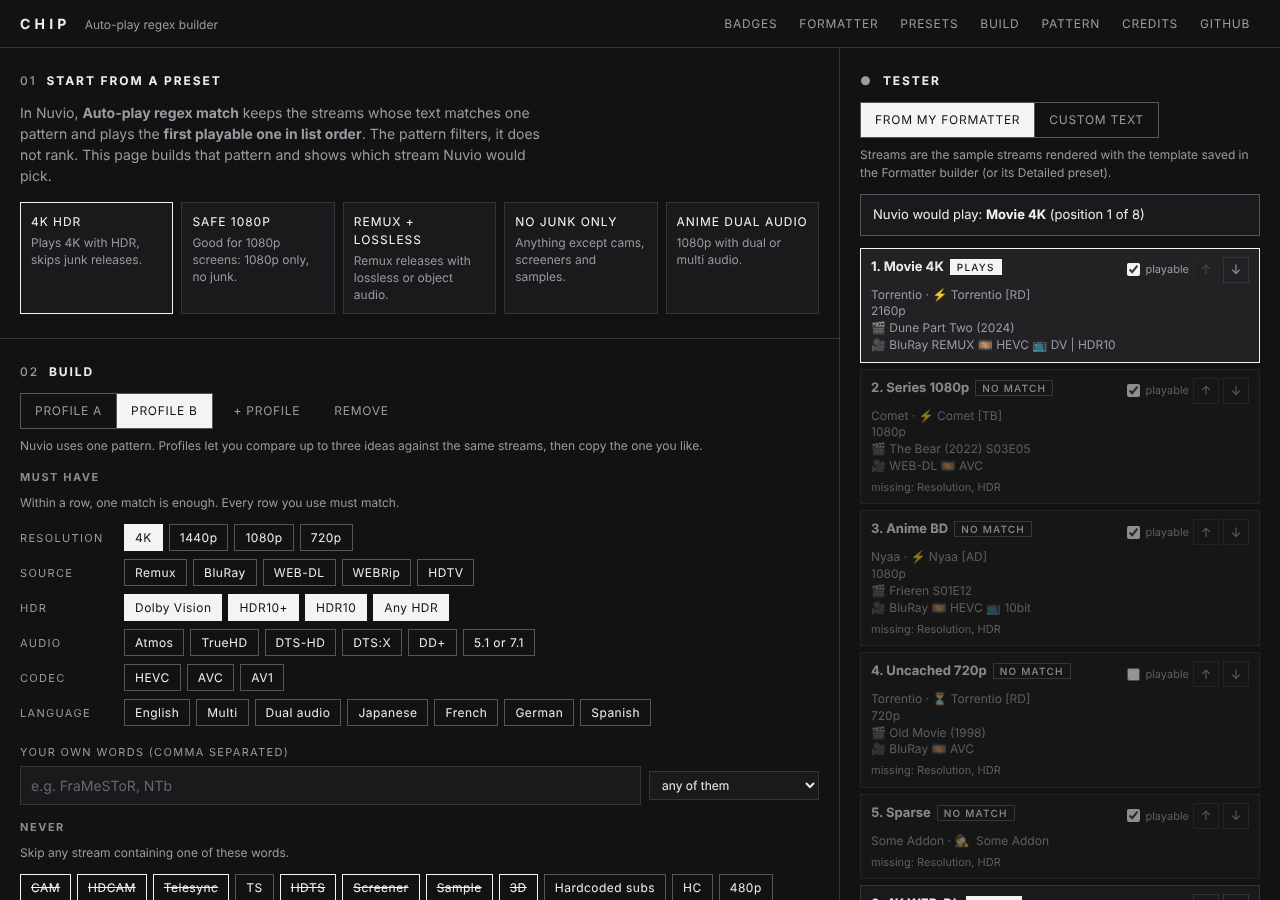
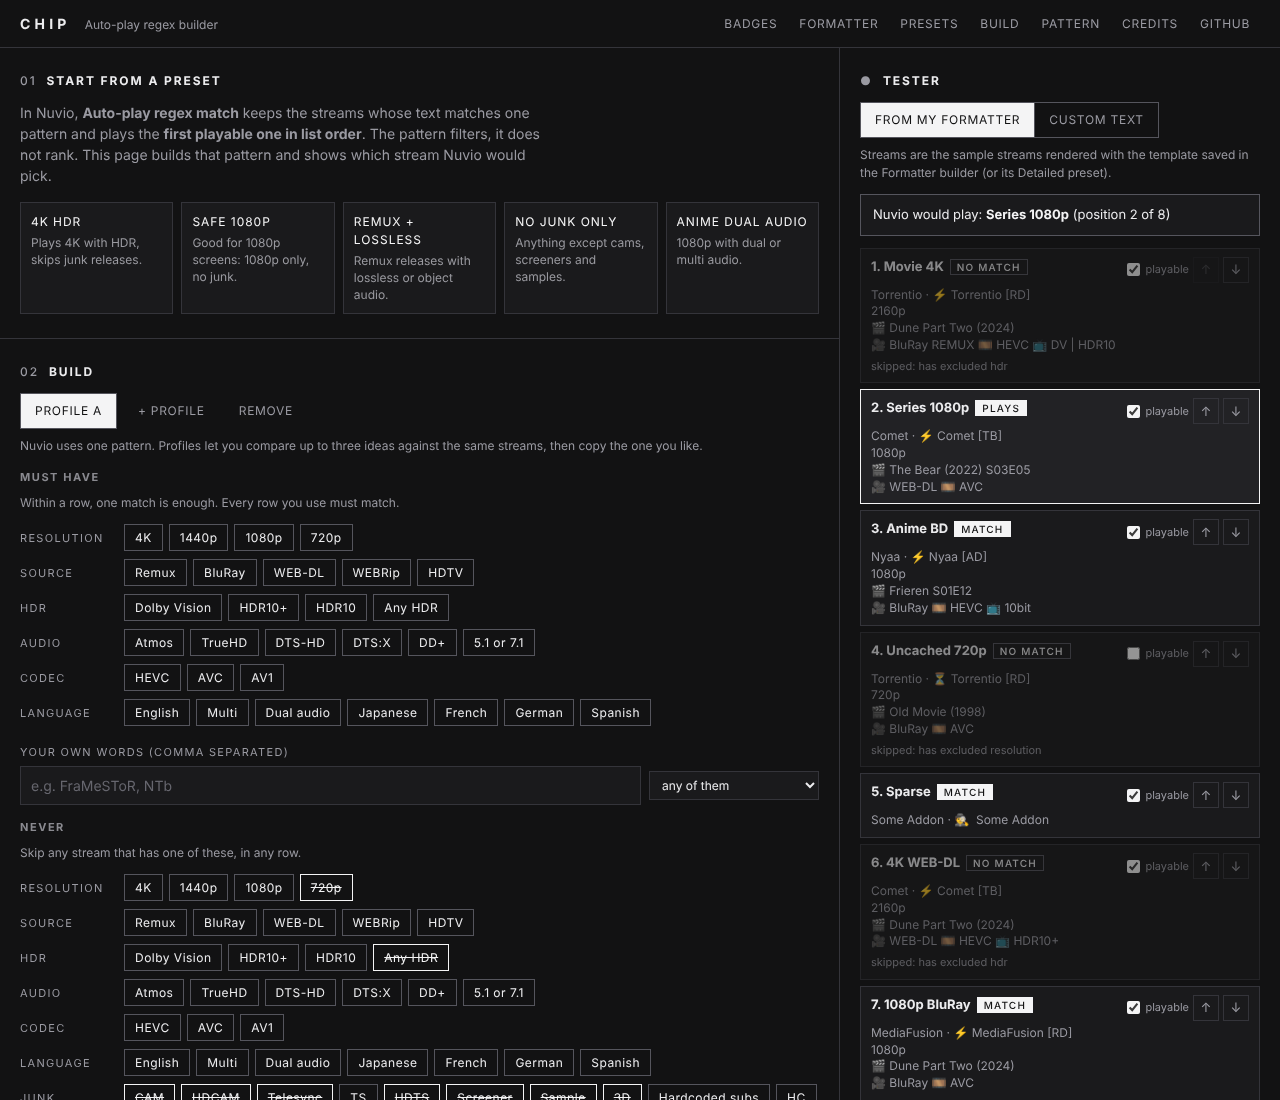
Regex builder: pick Never terms from the same categories as Must have
Claude-Session: https://claude.ai/code/session_01BBzKyXhXqtfiKR4JCFDgG4

diff --git a/regex.js b/regex.js
@@ -34,7 +34,7 @@
   ];
 
   /* --------------------------------------------------------------- state */
-  function blank(name) { return { name: name, sel: {}, avoid: [], words: '', mode: 'any', avwords: '', raw: null }; }
+  function blank(name) { return { name: name, sel: {}, avsel: {}, avoid: [], words: '', mode: 'any', avwords: '', raw: null }; }
   var state = { profiles: [blank('A')], active: 0, src: 'fmt', custom: '', order: [], playable: {} };
   function P() { return state.profiles[state.active]; }
   function save() { lsSet('chip:rx', JSON.stringify({ profiles: state.profiles, active: state.active, src: state.src, custom: state.custom })); }
@@ -62,6 +62,7 @@
   function norm(p) {
     var b = blank(typeof p.name === 'string' ? p.name.slice(0, 12) : 'A');
     CATS.forEach(function (c) { b.sel[c[0]] = Array.isArray(p.sel[c[0]]) ? p.sel[c[0]].filter(function (x) { return typeof x === 'string'; }) : []; });
+    b.avsel = {}; CATS.forEach(function (c) { b.avsel[c[0]] = p.avsel && Array.isArray(p.avsel[c[0]]) ? p.avsel[c[0]].filter(function (x) { return typeof x === 'string'; }) : []; });
     b.avoid = Array.isArray(p.avoid) ? p.avoid.filter(function (x) { return typeof x === 'string'; }) : [];
     b.words = typeof p.words === 'string' ? p.words : ''; b.mode = p.mode === 'all' ? 'all' : 'any';
     b.avwords = typeof p.avwords === 'string' ? p.avwords : ''; b.raw = typeof p.raw === 'string' ? p.raw : null;
@@ -87,8 +88,17 @@
     var a = (p.avoid || []).map(function (id) { var t = AVOID.filter(function (x) { return x[0] === id; })[0]; return t && t[1]; }).filter(Boolean);
     return a.concat(words(p.avwords).map(function (w) { return w.replace(/[^\w .\-]/g, ''); }).filter(Boolean));
   }
+  function avRows(p) { /* [{label, frag}] one negative lookahead each, no word boundaries (fragments are specific) */
+    var out = [];
+    CATS.forEach(function (c) {
+      var chosen = ((p.avsel || {})[c[0]] || []).map(function (id) { var t = c[2].filter(function (x) { return x[0] === id; })[0]; return t && t[1]; }).filter(Boolean);
+      if (chosen.length) out.push({ label: c[1], frag: chosen.join('|') });
+    });
+    return out;
+  }
   function generate(p) {
     var parts = rows(p).map(function (r) { return '(?=.*(' + r.frag + '))'; });
+    avRows(p).forEach(function (r) { parts.push('(?!.*(' + r.frag + '))'); });
     var av = avoidWords(p);
     if (av.length) parts.push('(?!.*\\b(' + av.join('|') + ')\\b)');
     return parts.length ? '(?is)^' + parts.join('') : '';
@@ -130,6 +140,8 @@
         if (p && p.raw === null) {
           var hit = avoidWords(p).filter(function (w) { return new RegExp('\\b' + esc(w) + '\\b', 'i').test(t); });
           if (hit.length) { r.why = 'skipped: contains "' + hit[0] + '"'; return; }
+          var ah = avRows(p).filter(function (x) { return new RegExp(x.frag, 'i').test(t); });
+          if (ah.length) { r.why = 'skipped: has excluded ' + ah[0].label.toLowerCase(); return; }
         }
         if (rr.length) {
           var miss = rr.filter(function (x) { return !new RegExp(x.frag, 'is').test(t); }).map(function (x) { return x.label; });
@@ -190,10 +202,20 @@
       box.append(el('div', { className: 'catrow' }, el('span', { textContent: c[1] }), chips));
     });
     var av = $('#rx-avoid'); av.replaceChildren();
-    AVOID.forEach(function (t) {
-      var on = p.avoid.indexOf(t[0]) >= 0;
-      av.append(el('button', { type: 'button', className: 'tog neg' + (on ? ' on' : ''), textContent: t[0], 'aria-pressed': String(on), onclick: function () { toggle(p.avoid, t[0]); p.raw = null; update(); } }));
+    CATS.forEach(function (c) {
+      var chips = el('div', { className: 'chips' });
+      c[2].forEach(function (t) {
+        chips.append(el('button', { type: 'button', className: 'tog neg', textContent: t[0], onclick: function () { p.avsel[c[0]] = p.avsel[c[0]] || []; toggle(p.avsel[c[0]], t[0]); p.raw = null; update(); } }, null));
+        chips.lastChild.dataset.k = 'av:' + c[0]; chips.lastChild.dataset.id = t[0];
+      });
+      av.append(el('div', { className: 'catrow' }, el('span', { textContent: c[1] }), chips));
     });
+    var junk = el('div', { className: 'chips' });
+    AVOID.forEach(function (t) {
+      junk.append(el('button', { type: 'button', className: 'tog neg', textContent: t[0], onclick: function () { toggle(p.avoid, t[0]); p.raw = null; update(); } }));
+      junk.lastChild.dataset.k = 'junk'; junk.lastChild.dataset.id = t[0];
+    });
+    av.append(el('div', { className: 'catrow' }, el('span', { textContent: 'Junk' }), junk));
     $('#rx-words').value = p.words; $('#rx-wordmode').value = p.mode; $('#rx-avwords').value = p.avwords;
     var tabs = $('#rx-profiles'); tabs.replaceChildren();
     state.profiles.forEach(function (q, i) {
@@ -206,7 +228,7 @@
     PRESETS.forEach(function (pr) {
       box.append(el('button', { type: 'button', className: 'preset pack', onclick: function () {
         var p = P(); p.sel = {}; CATS.forEach(function (c) { p.sel[c[0]] = (pr[2].sel[c[0]] || []).slice(); });
-        p.avoid = pr[2].avoid.slice(); p.words = ''; p.avwords = ''; p.raw = null; renderBuild(); update();
+        p.avoid = pr[2].avoid.slice(); p.avsel = {}; CATS.forEach(function (c) { p.avsel[c[0]] = (pr[2].avsel && pr[2].avsel[c[0]] || []).slice(); }); p.words = ''; p.avwords = ''; p.raw = null; renderBuild(); update();
       } }, el('span', { className: 'pname', textContent: pr[0] }), el('span', { className: 'pdesc', textContent: pr[1] })));
     });
   }
@@ -221,7 +243,7 @@
       js.warns.forEach(function (w) { issue(list, 'bad', w); });
       if (!js.err) {
         if (/\.\*/.test(t) && !/^\(\?[a-z]*s[a-z]*\)/i.test(t)) issue(list, 'bad', 'This uses .* without (?s). Stream descriptions have line breaks, and . stops at them, so matches may be missed.');
-        exclusion(t).forEach(function (w) { if (/[^\w .\-]/.test(w)) issue(list, 'bad', 'The skip word "' + w + '" has special characters. Nuvio pulls skip words out of the pattern and the TV app does not escape them. Use plain words.'); });
+        if (P().raw !== null) exclusion(t).forEach(function (w) { if (/[^\w .\-]/.test(w)) issue(list, 'bad', 'The skip word "' + w + '" has special characters. Nuvio pulls skip words out of the pattern and the TV app does not escape them. Use plain words.'); });
         if (streams.length) {
           var n = ev.res.filter(function (r) { return r.match; }).length;
           if (!n) issue(list, 'bad', 'Matches none of the ' + streams.length + ' test streams. Nuvio would auto-play nothing for them.');
@@ -270,8 +292,10 @@
     var p = P();
     var chips = document.querySelectorAll('#rx-cats .tog'), k = 0;
     CATS.forEach(function (c) { c[2].forEach(function (t) { var on = (p.sel[c[0]] || []).indexOf(t[0]) >= 0; chips[k].classList.toggle('on', on); chips[k].setAttribute('aria-pressed', String(on)); k++; }); });
-    var av = document.querySelectorAll('#rx-avoid .tog');
-    AVOID.forEach(function (t, i) { var on = p.avoid.indexOf(t[0]) >= 0; av[i].classList.toggle('on', on); av[i].setAttribute('aria-pressed', String(on)); });
+    Array.prototype.forEach.call(document.querySelectorAll('#rx-avoid .tog'), function (b) {
+      var k = b.dataset.k, on = k === 'junk' ? p.avoid.indexOf(b.dataset.id) >= 0 : ((p.avsel || {})[k.slice(3)] || []).indexOf(b.dataset.id) >= 0;
+      b.classList.toggle('on', on); b.setAttribute('aria-pressed', String(on));
+    });
     var HAND = 'Edited by hand. Changing a choice above replaces it.', n = $('#rx-note');
     if (p.raw !== null) n.textContent = HAND; else if (n.textContent === HAND) n.textContent = '';
   }

diff --git a/regex.html b/regex.html
@@ -56,8 +56,8 @@
       </div>
 
       <h3 class="sublbl">Never</h3>
-      <p class="hint">Skip any stream containing one of these words.</p>
-      <div id="rx-avoid" class="chips"></div>
+      <p class="hint">Skip any stream that has one of these, in any row.</p>
+      <div id="rx-avoid"></div>
       <label class="lbl" for="rx-avwords">Your own words to skip (letters, numbers, spaces, dots, dashes)</label>
       <input type="text" id="rx-avwords" placeholder="e.g. korsub, hindi" autocomplete="off">
     </section>
